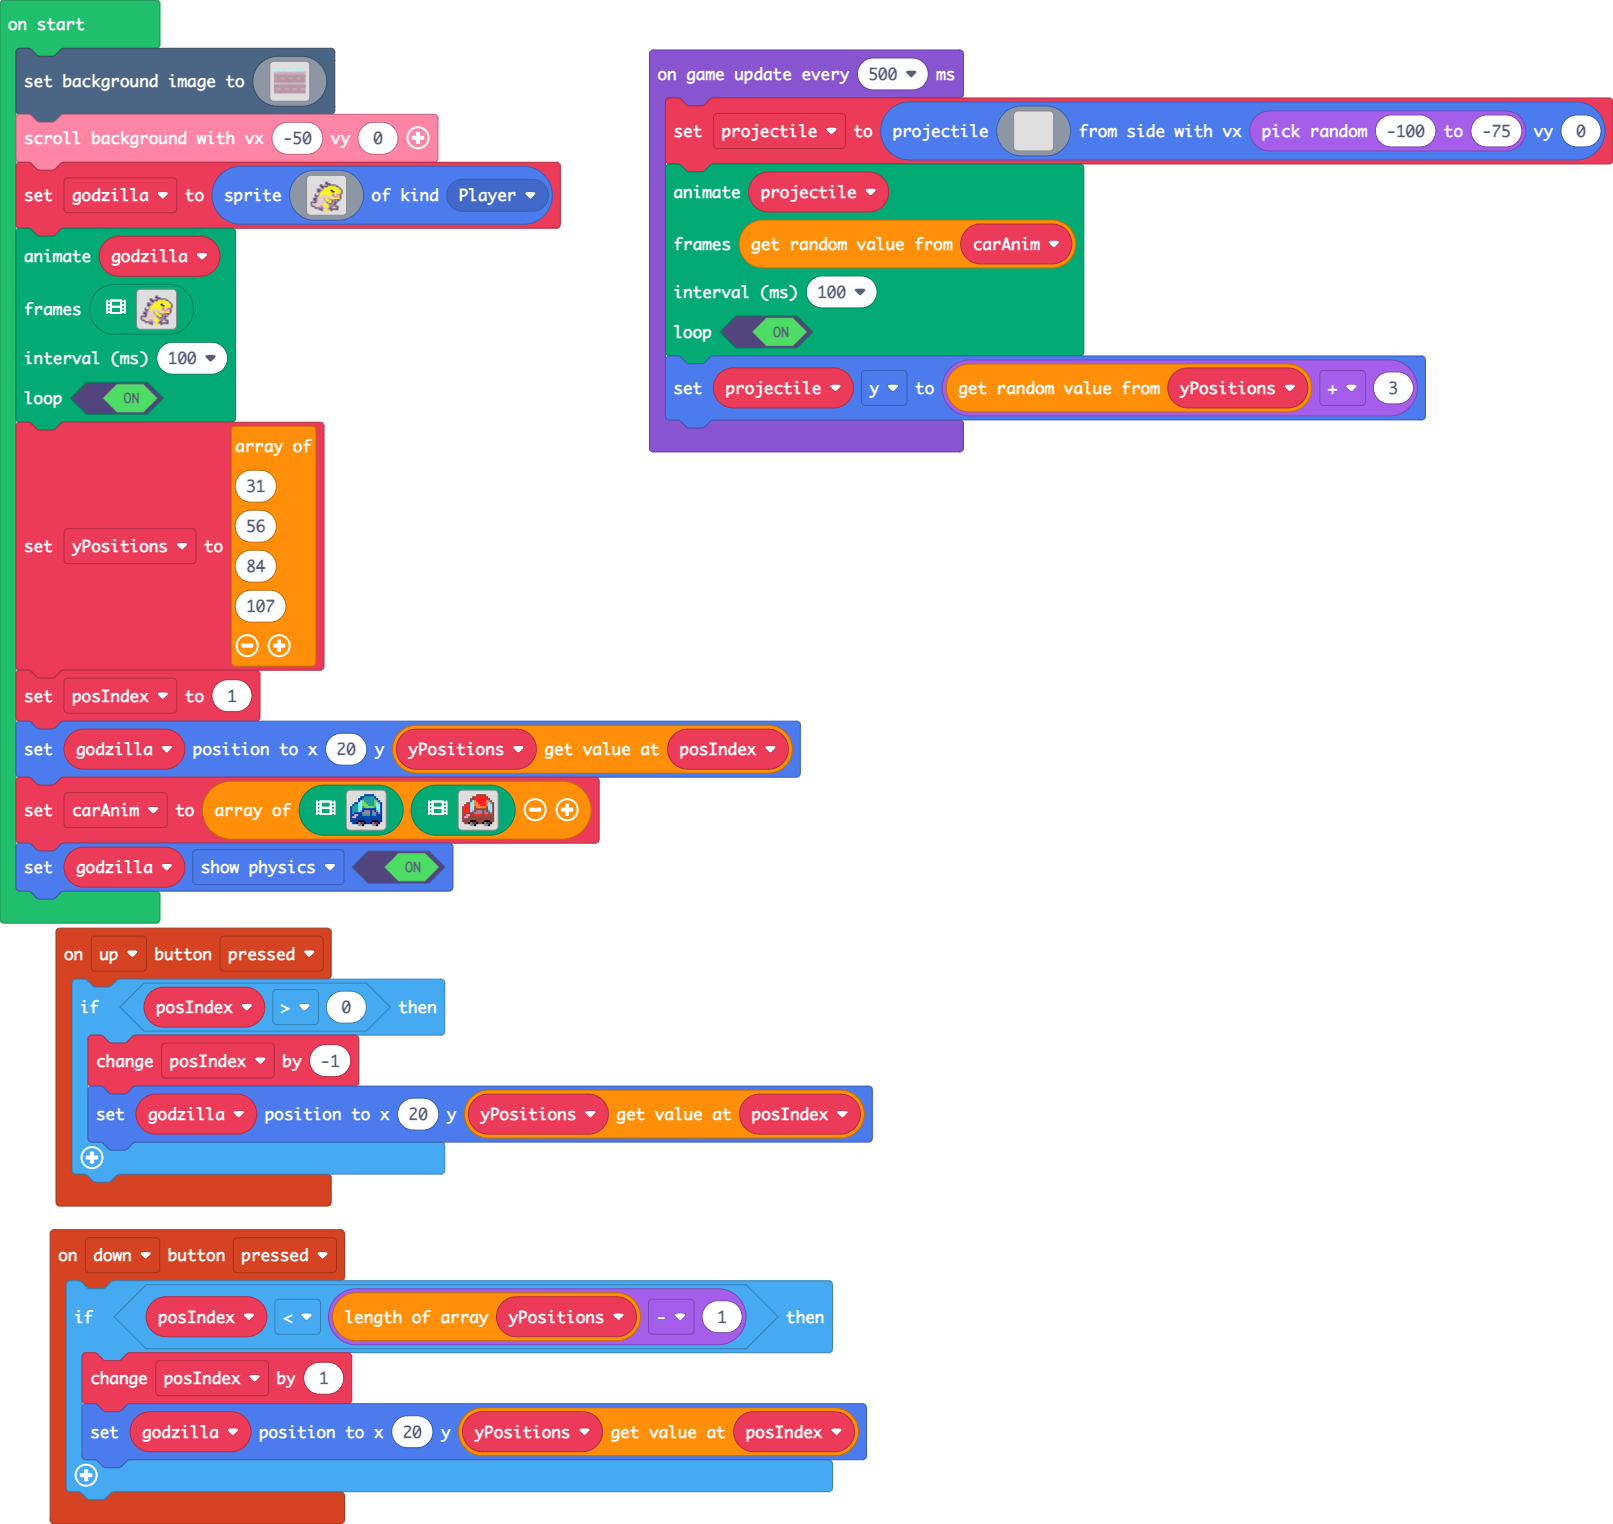
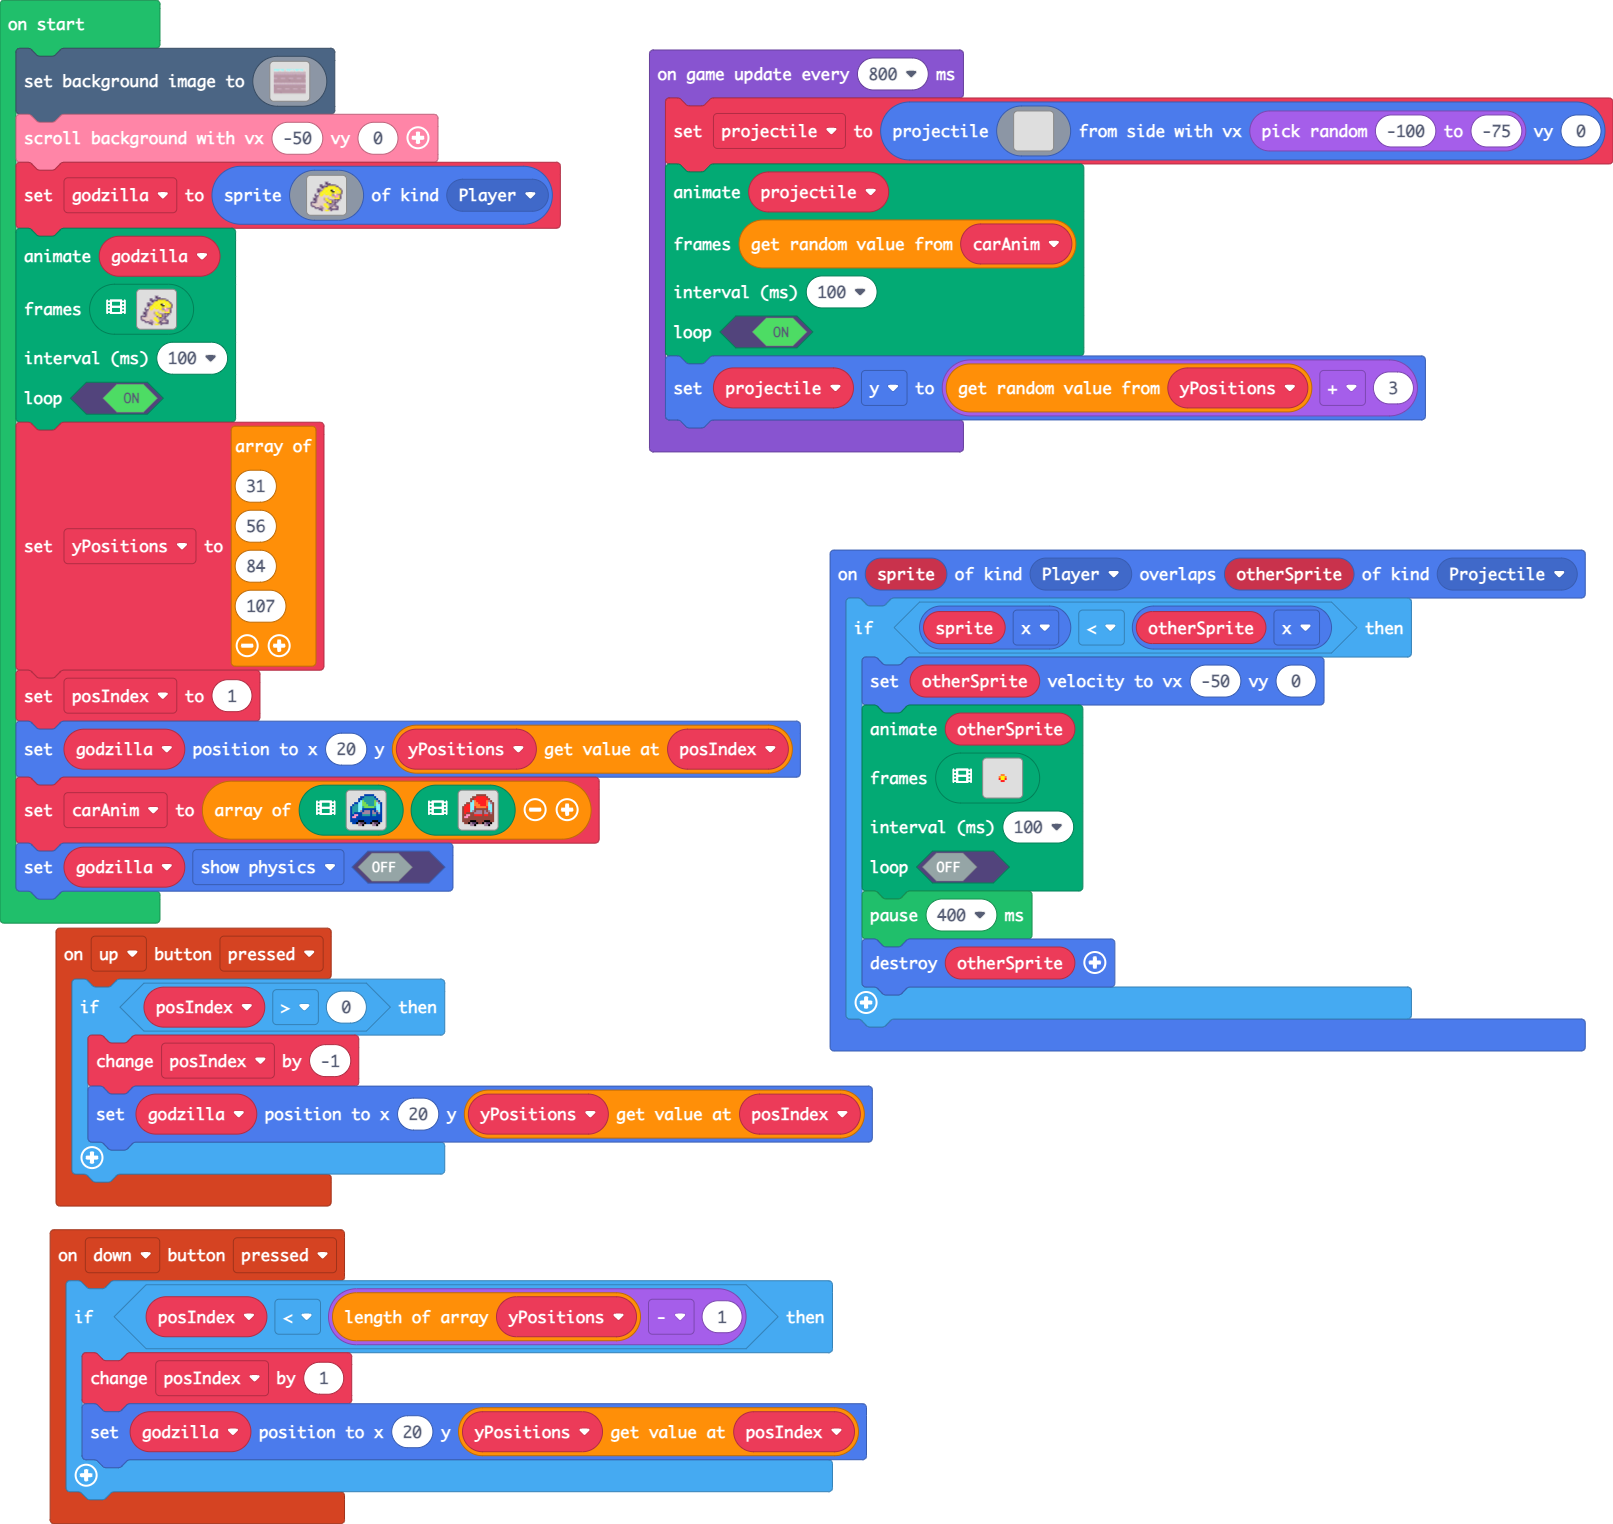
Update main.blocks, main.ts

Changed region(s): [[0.496, 0.3392, 0.9919, 0.7093], [0.217, 0.5551, 0.279, 0.586]]

diff --git a/main.ts b/main.ts
@@ -4,6 +4,87 @@ controller.up.onEvent(ControllerButtonEvent.Pressed, function () {
         godzilla.setPosition(20, yPositions[posIndex])
     }
 })
+sprites.onOverlap(SpriteKind.Player, SpriteKind.Projectile, function (sprite, otherSprite) {
+    if (sprite.x < otherSprite.x) {
+        otherSprite.setVelocity(-50, 0)
+        animation.runImageAnimation(
+        otherSprite,
+        [img`
+            . . . . . . . . . . . . . . . . 
+            . . . . . . . . . . . . . . . . 
+            . . . . . . . . . . . . . . . . 
+            . . . . . . . . . . . . . . . . 
+            . . . . . . . . . . . . . . . . 
+            . . . . . . . . . . . . . . . . 
+            . . . . . . . 4 4 . . . . . . . 
+            . . . . . . 4 5 5 4 . . . . . . 
+            . . . . . . 2 5 5 2 . . . . . . 
+            . . . . . . . 2 2 . . . . . . . 
+            . . . . . . . . . . . . . . . . 
+            . . . . . . . . . . . . . . . . 
+            . . . . . . . . . . . . . . . . 
+            . . . . . . . . . . . . . . . . 
+            . . . . . . . . . . . . . . . . 
+            . . . . . . . . . . . . . . . . 
+            `,img`
+            . . . . . . . . . . . . . . . . 
+            . . . . . . . . . . . . . . . . 
+            . . . . . . . . . . . . . . . . 
+            . . . . . . . . . . . . . . . . 
+            . . . . . . . . . . 4 . . . . . 
+            . . . . 2 . . . . 4 4 . . . . . 
+            . . . . 2 4 . . 4 5 4 . . . . . 
+            . . . . . 2 4 d 5 5 4 . . . . . 
+            . . . . . 2 5 5 5 5 4 . . . . . 
+            . . . . . . 2 5 5 5 5 4 . . . . 
+            . . . . . . 2 5 4 2 4 4 . . . . 
+            . . . . . . 4 4 . . 2 4 4 . . . 
+            . . . . . 4 4 . . . . . . . . . 
+            . . . . . . . . . . . . . . . . 
+            . . . . . . . . . . . . . . . . 
+            . . . . . . . . . . . . . . . . 
+            `,img`
+            . 3 . . . . . . . . . . . 4 . . 
+            . 3 3 . . . . . . . . . 4 4 . . 
+            . 3 d 3 . . 4 4 . . 4 4 d 4 . . 
+            . . 3 5 3 4 5 5 4 4 d d 4 4 . . 
+            . . 3 d 5 d 1 1 d 5 5 d 4 4 . . 
+            . . 4 5 5 1 1 1 1 5 1 1 5 4 . . 
+            . 4 5 5 5 5 1 1 5 1 1 1 d 4 4 . 
+            . 4 d 5 1 1 5 5 5 1 1 1 5 5 4 . 
+            . 4 4 5 1 1 5 5 5 5 5 d 5 5 4 . 
+            . . 4 3 d 5 5 5 d 5 5 d d d 4 . 
+            . 4 5 5 d 5 5 5 d d d 5 5 4 . . 
+            . 4 5 5 d 3 5 d d 3 d 5 5 4 . . 
+            . 4 4 d d 4 d d d 4 3 d d 4 . . 
+            . . 4 5 4 4 4 4 4 4 4 4 4 . . . 
+            . 4 5 4 . . 4 4 4 . . . 4 4 . . 
+            . 4 4 . . . . . . . . . . 4 4 . 
+            `,img`
+            . . . . . . . . . . . . . . . . 
+            . . . . . . . . . . . . . . . . 
+            . . . . . b b . b b b . . . . . 
+            . . . . b 1 1 b 1 1 1 b . . . . 
+            . . b b 3 1 1 d d 1 d d b b . . 
+            . b 1 1 d d b b b b b 1 1 b . . 
+            . b 1 1 1 b . . . . . b d d b . 
+            . . 3 d d b . . . . . b d 1 1 b 
+            . b 1 d 3 . . . . . . . b 1 1 b 
+            . b 1 1 b . . . . . . b b 1 d b 
+            . b 1 d b . . . . . . b d 3 d b 
+            . b b d d b . . . . b d d d b . 
+            . b d d d d b . b b 3 d d 3 b . 
+            . . b d d 3 3 b d 3 3 b b b . . 
+            . . . b b b d d d d d b . . . . 
+            . . . . . . b b b b b . . . . . 
+            `],
+        100,
+        false
+        )
+        pause(400)
+        otherSprite.destroy()
+    }
+})
 controller.down.onEvent(ControllerButtonEvent.Pressed, function () {
     if (posIndex < yPositions.length - 1) {
         posIndex += 1
@@ -464,8 +545,8 @@ let carAnim = [[img`
     . e e f b b c f e e f b b c f . 
     . . . . c f f . . . . c f f . . 
     `]]
-godzilla.setFlag(SpriteFlag.ShowPhysics, true)
-game.onUpdateInterval(500, function () {
+godzilla.setFlag(SpriteFlag.ShowPhysics, false)
+game.onUpdateInterval(800, function () {
     projectile = sprites.createProjectileFromSide(img`
         . . . . . . . . . . . . . . . . 
         . . . . . . . . . . . . . . . . 
